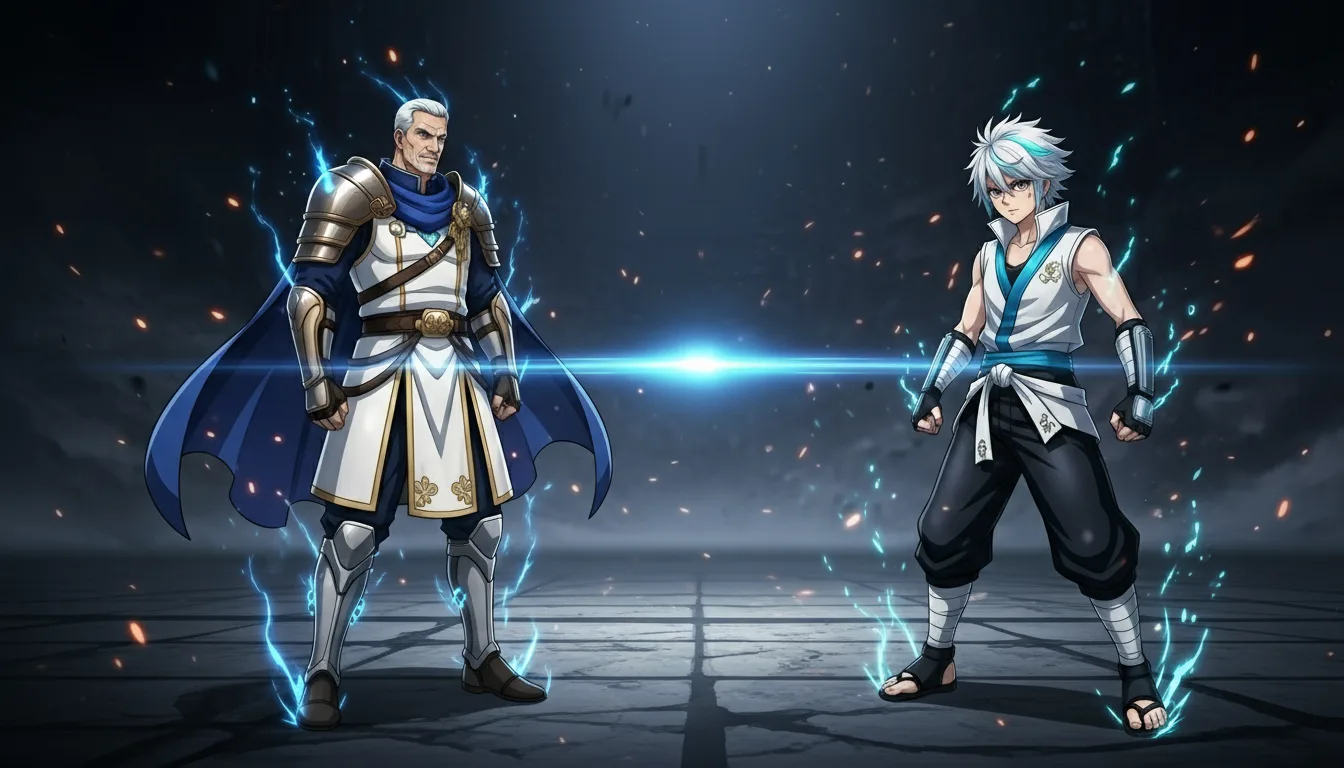
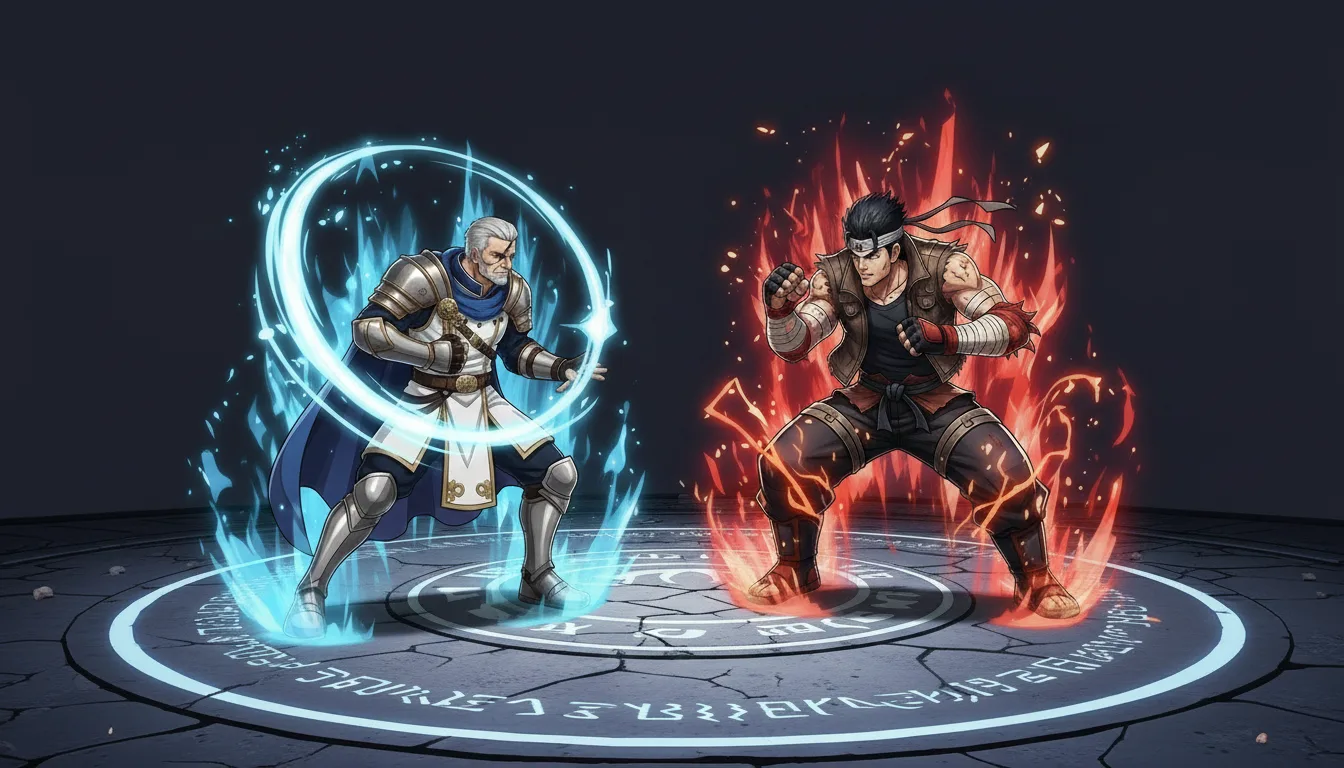
feat: new arena backgrounds, loadout bg, Zane portrait update
- Add 12 new arena matchup backgrounds (webp, ~75-120kb each)
- Fix kaira↔zane, zane↔kaira with dedicated images (were using standin)
- Add elara matchup backgrounds: elara_riven, zane_elara + fallbacks for elara↔kaira/kenji
- Update all riven/kenji/zane matchup backgrounds with new compositions
- Replace loadout screen background with new_loadout_bg.webp
- Replace Zane's portrait/standingArt with correct zane_portrait.webp
- Note: kaira_elara and kenji_elara still need dedicated images

diff --git a/app/lib/gameData.ts b/app/lib/gameData.ts
@@ -96,9 +96,9 @@ export const CHARACTERS: Character[] = [
         knockStat: 95,
         priorityStat: 45,
         drainStat: 35,
-        portrait: "/characters/characters /Whisk_5edzhrtn5qtokzdotqwoxgtl4ydm00cn2cdmtqj 1.webp",
-        fullArt: "/characters/characters /Whisk_5edzhrtn5qtokzdotqwoxgtl4ydm00cn2cdmtqj 1.webp",
-        standingArt: "/characters/characters /Whisk_5edzhrtn5qtokzdotqwoxgtl4ydm00cn2cdmtqj 1.webp",
+        portrait: "/characters/characters /zane_portrait.webp",
+        fullArt: "/characters/characters /zane_portrait.webp",
+        standingArt: "/characters/characters /zane_portrait.webp",
         color: "#f87171",
         isLocked: false,
         finisherVideo: "/new-assets/action-flying-kick.webm",
@@ -132,22 +132,32 @@ export const ARENA_BACKGROUNDS: Record<string, Record<string, string>> = {
     kaira: {
         kenji: "/arena-backgrounds/arena_kaira_kenji.webp",
         riven: "/arena-backgrounds/arena_kaira_riven.webp",
-        zane:  "/arena-backgrounds/arena_kaira_kenji.webp",
+        zane:  "/arena-backgrounds/arena_kaira_zane.webp",
+        elara: "/arena-backgrounds/arena_kaira_riven.webp",
     },
     kenji: {
         kaira: "/arena-backgrounds/arena_kenji_kaira.webp",
         riven: "/arena-backgrounds/arena_kenji_riven.webp",
         zane:  "/arena-backgrounds/arena_kenji_zane.webp",
+        elara: "/arena-backgrounds/arena_kenji_zane.webp",
     },
     riven: {
         kaira: "/arena-backgrounds/arena_riven_kaira.webp",
         kenji: "/arena-backgrounds/arena_riven_kenji.webp",
         zane:  "/arena-backgrounds/arena_riven_zane.webp",
+        elara: "/arena-backgrounds/arena_elara_riven.webp",
     },
     zane: {
         kenji: "/arena-backgrounds/arena_zane_kenji.webp",
         riven: "/arena-backgrounds/arena_zane_riven.webp",
-        kaira: "/arena-backgrounds/arena_zane_kenji.webp",
+        kaira: "/arena-backgrounds/arena_zane_kaira.webp",
+        elara: "/arena-backgrounds/arena_zane_elara.webp",
+    },
+    elara: {
+        riven: "/arena-backgrounds/arena_elara_riven.webp",
+        zane:  "/arena-backgrounds/arena_zane_elara.webp",
+        kaira: "/arena-backgrounds/arena_kaira_riven.webp",
+        kenji: "/arena-backgrounds/arena_kenji_riven.webp",
     },
 };
 

diff --git a/app/loadout/page.tsx b/app/loadout/page.tsx
@@ -7,7 +7,7 @@ import { CARDS, Card, CardType } from "../lib/gameData";
 import { WalletSection } from "../components/WalletSection";
 
 // ── Assets ─────────────────────────────────────────────────────────────────
-const BG_MAIN = "/new addition/loadout 001.webp";
+const BG_MAIN = "/new addition/new_loadout_bg.webp";
 
 const DESIGN_W = 1440;
 const DESIGN_H = 823;
